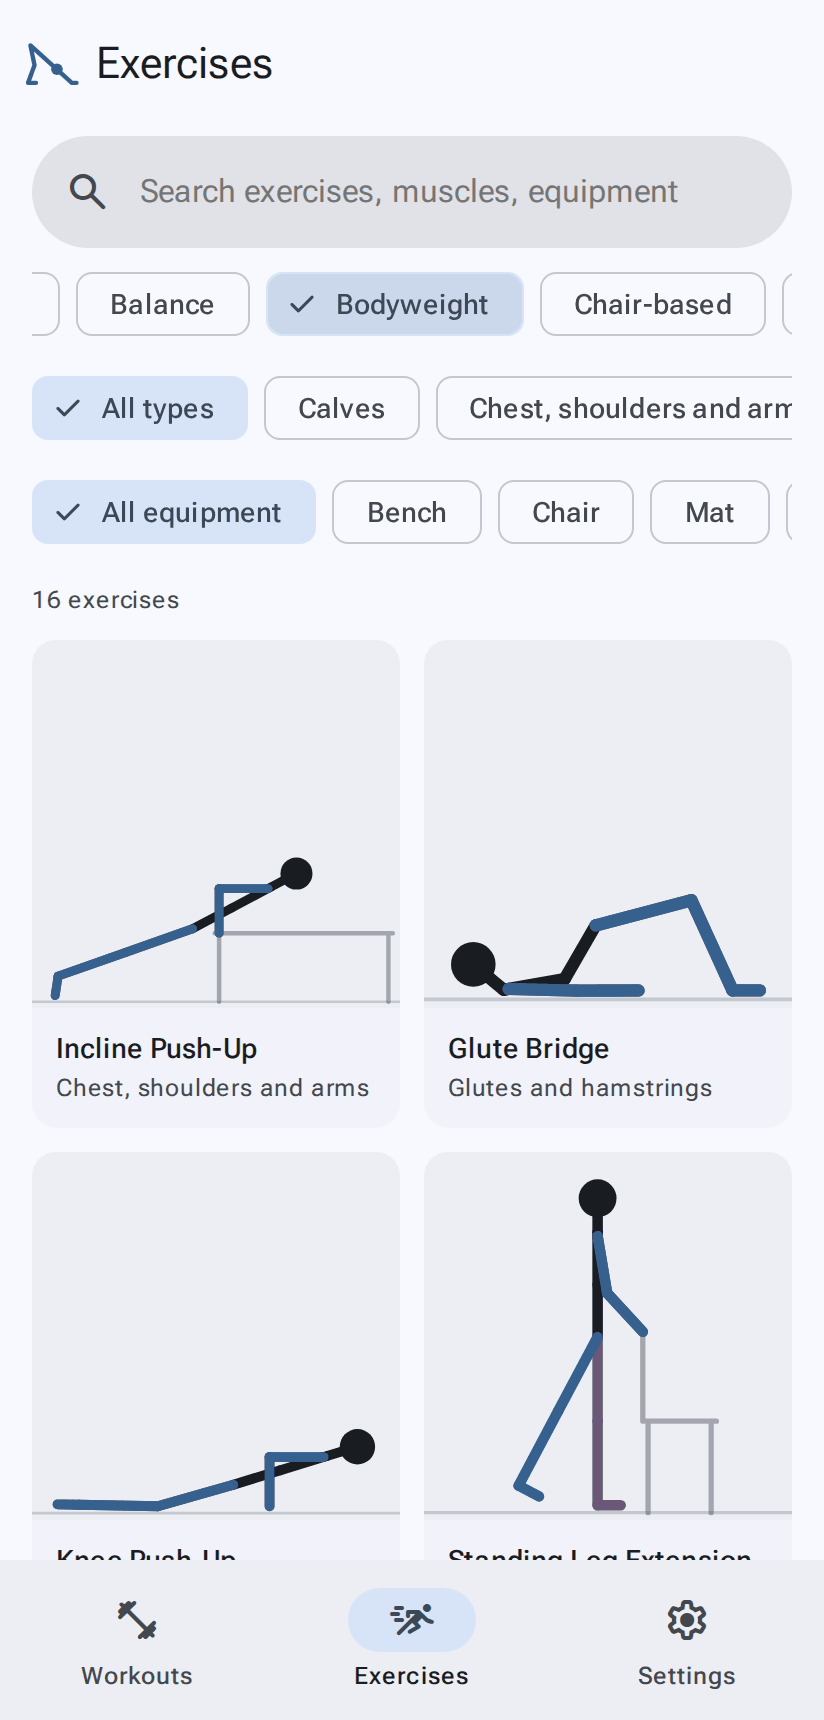
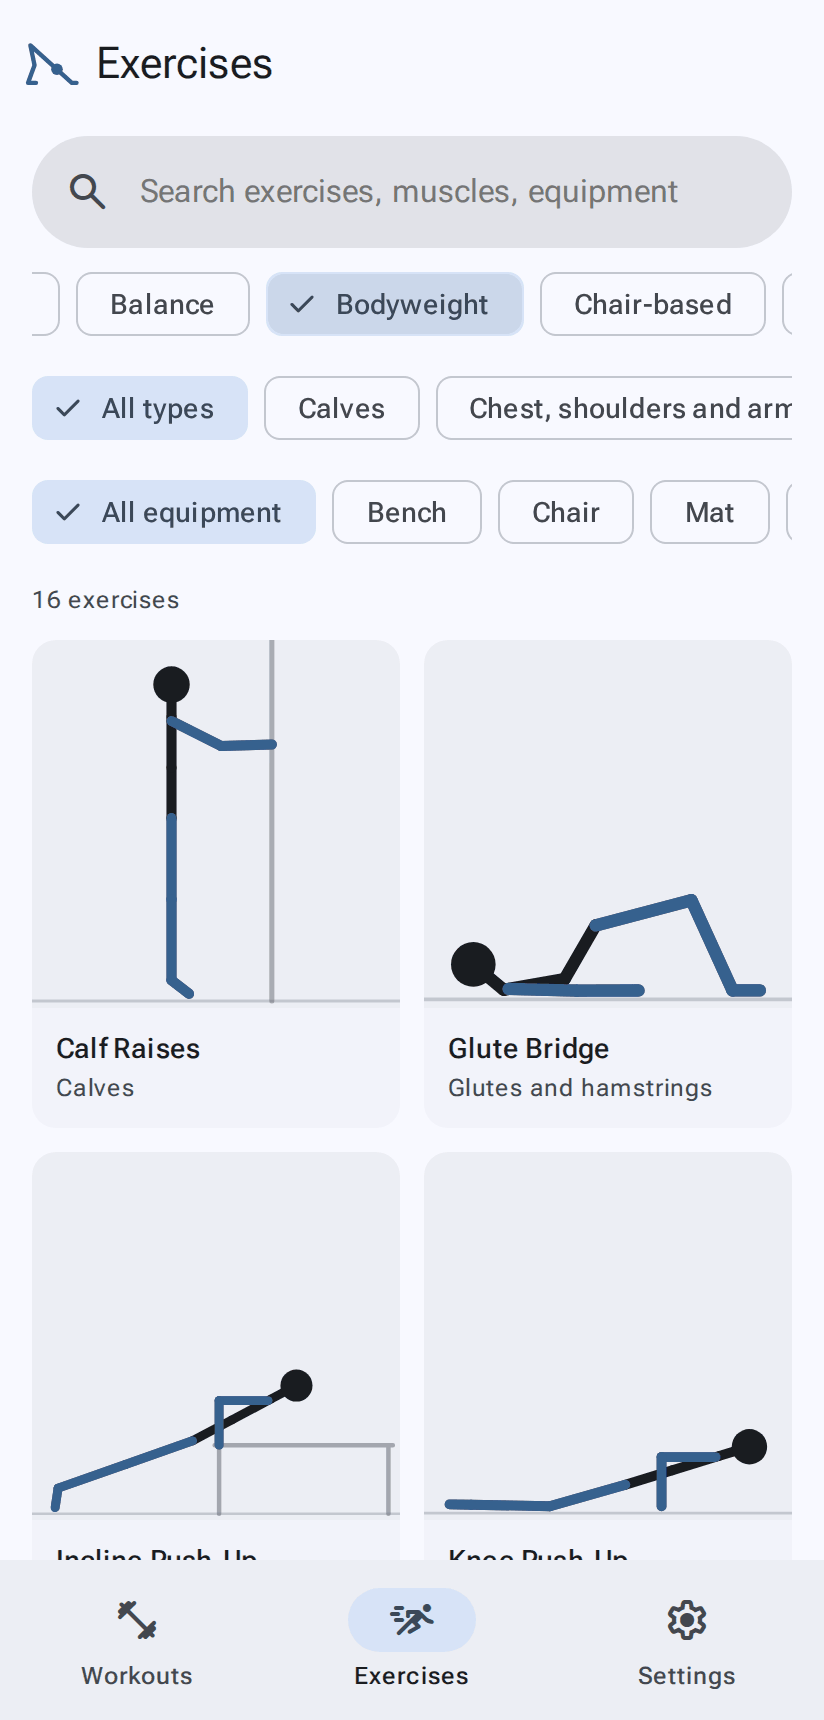
Exercises tab: Group by collection switch
On (default): a shelf per collection, or with filters the matches under each collection. Off: one A-Z list of everything that matches. Lists inside one collection are A-Z too. Remembered in nstructr-group-collections-v1.

Claude-Session: https://claude.ai/code/session_0133kyx5MPf8aRU2sQwm2BG7

diff --git a/src/app/2-explore.js b/src/app/2-explore.js
@@ -34,6 +34,10 @@ function migrateSaved() {
   if (changed) { saveBookmarks(); saveLib(); }
 }
 const E = { coll: 'All', type: 'All', equip: 'Any', q: '' };
+/* All collections: grouped (a row per collection; with filters, a section per collection) or one A–Z list */
+const GROUP_KEY = 'nstructr-group-collections-v1';
+const grouped = () => pref(GROUP_KEY, 'on') !== 'off';
+const byName = list => [...list].sort((a, b) => a.name.localeCompare(b.name));
 const THUMBS = new Map();
 function thumbFor(ex) {
   const key = ex.id + ':' + JSON.stringify(ex.keyframes).length;
@@ -83,7 +87,19 @@ function renderExplore() {
     (eq === 'Any' || (ex.equipment || []).includes(eq)) &&
     (!q || [ex.name, ...otherNames(ex), ex.category, ex.focus, ...(ex.collections || []), ...(ex.equipment || [])].some(s => String(s || '').toLowerCase().includes(q))));
   const body = $('#exploreBody');
-  if (E.coll === 'All' && E.type === 'All' && eq === 'Any' && !q) {
+  $('#groupWrap').hidden = E.coll !== 'All';
+  $('#groupColl').checked = grouped();
+  if (E.coll === 'All' && grouped() && list.length && (E.type !== 'All' || eq !== 'Any' || q)) {
+    // filtered, grouped: every match, under each collection it's in
+    const matches = new Set(list);
+    const section = (c, items) => items.length ? `<section class="section"><div class="section-head">
+        <h2 class="title-medium">${esc(c)}<span class="count">${items.length}</span></h2></div>
+        <div class="results">${byName(items).map(card).join('')}</div></section>` : '';
+    body.innerHTML = `<p class="body-small muted" style="margin:12px 0 0">${list.length} ${list.length === 1 ? 'exercise' : 'exercises'}</p>` +
+      section(MINE, mine.filter(ex => matches.has(ex))) + colls.map(c => section(c, inCollection(c).filter(ex => matches.has(ex)))).join('');
+    return;
+  }
+  if (E.coll === 'All' && grouped() && E.type === 'All' && eq === 'Any' && !q) {
     // browsing: one shelf per collection, Saved first
     const shelf = (c, items) => `<section class="section"><div class="section-head">
         <h2 class="title-medium">${esc(c)}<span class="count">${items.length}</span></h2>
@@ -104,7 +120,7 @@ function renderExplore() {
     return;
   }
   body.innerHTML = list.length
-    ? `<p class="body-small muted" style="margin:12px 0 0">${list.length} ${list.length === 1 ? 'exercise' : 'exercises'}</p><div class="results">${list.map(card).join('')}</div>`
+    ? `<p class="body-small muted" style="margin:12px 0 0">${list.length} ${list.length === 1 ? 'exercise' : 'exercises'}</p><div class="results">${byName(list).map(card).join('')}</div>`
     : `<div class="empty-state"><span class="icon">search_off</span><p class="title-medium" style="margin:8px 0 4px">Nothing matches</p>
        <p class="muted" style="margin:0 0 16px">Try a different word, or clear the filters.</p><button class="btn tonal stateful" data-act="clearFilters">Clear filters</button></div>`;
 }

diff --git a/src/head.html b/src/head.html
@@ -283,6 +283,8 @@ dialog.library[open]{display:flex;flex-direction:column}
 .search:focus-within{outline:3px solid var(--md-primary);outline-offset:0}
 .filters{display:flex;gap:8px;overflow-x:auto;padding:8px 16px;scrollbar-width:none}   /* 8 px above and below each 32 px chip: room for its 48 px touch target */
 .filters::-webkit-scrollbar{display:none}
+.group-toggle{display:flex;align-items:center;justify-content:space-between;gap:12px;min-height:48px;padding:0 16px;cursor:pointer}
+.group-toggle[hidden]{display:none}
 .filter{flex:none;display:inline-flex;align-items:center;gap:8px;height:32px;padding:0 16px;border-radius:var(--shape-s);border:1px solid var(--md-outline-variant);
   color:var(--md-on-surface-variant);font-weight:500;letter-spacing:.1px}
 .filter[aria-pressed="true"]{background:var(--md-secondary-container);color:var(--md-on-secondary-container);border-color:transparent;padding-left:8px}

diff --git a/src/app/5-main.js b/src/app/5-main.js
@@ -429,6 +429,7 @@ $('#backBtn').addEventListener('click', () => {
 });
 $('#saveBtn').addEventListener('click', toggleSave);
 $('#search').addEventListener('input', e => { E.q = e.target.value; renderExplore(); });
+$('#groupColl').addEventListener('change', e => { setPref(GROUP_KEY, e.target.checked ? 'on' : 'off'); renderExplore(); });
 $('#clearSearch').addEventListener('click', () => { E.q = ''; $('#search').value = ''; renderExplore(); $('#search').focus(); });
 $('#fileInput').addEventListener('change', e => { importFiles([...e.target.files]); e.target.value = ''; });
 $('#pasteImport').addEventListener('click', () => {

diff --git a/src/body.html b/src/body.html
@@ -32,6 +32,8 @@
         <div class="filters" id="fCollection" role="group" aria-label="Collection"></div>
         <div class="filters" id="fType" role="group" aria-label="Type" hidden></div>
         <div class="filters" id="fEquip" role="group" aria-label="Equipment" hidden></div>
+        <label class="group-toggle" id="groupWrap"><span class="body-medium">Group by collection</span>
+          <input type="checkbox" class="switch" id="groupColl"></label>
       </div>
       <div id="exploreBody"></div>
     </section>

diff --git a/tools/e2e/group_by_collection.py b/tools/e2e/group_by_collection.py
@@ -1,0 +1,30 @@
+import asyncio, os
+# point at a served build, e.g.  python3 -m http.server 8000 -d _site
+URL = os.environ.get('NSTRUCTR_URL', 'http://localhost:8000/nstructr.html')
+from playwright.async_api import async_playwright
+# Exercises tab, "Group by collection": on (default) = a row per collection, or with filters a section per collection;
+# off = one A–Z list of everything that matches. Remembered; shown only for All collections.
+async def main():
+    async with async_playwright() as p:
+        b = await p.chromium.launch(); errs = []
+        pg = await b.new_page(viewport={'width': 412, 'height': 860}); pg.on('pageerror', lambda e: errs.append(str(e)))
+        await pg.goto(URL + '#/exercises', wait_until='domcontentloaded'); await pg.wait_for_timeout(600)
+        state = """(() => { const names = [...document.querySelectorAll('#exploreBody .pose-card .t')].map(x => x.textContent);
+          return { toggle: !$('#groupWrap').hidden, on: $('#groupColl').checked, sections: document.querySelectorAll('#exploreBody .section').length,
+                   carousels: document.querySelectorAll('#exploreBody .carousel').length, cards: names.length,
+                   sorted: names.join('|') === [...names].sort((a, b) => a.localeCompare(b)).join('|'), first: names.slice(0, 3) }; })()"""
+        print('default                 ', await pg.evaluate(state))
+        await pg.click('#groupWrap'); await pg.wait_for_timeout(200)
+        print('off: one A-Z list       ', await pg.evaluate(state), '| library', await pg.evaluate('POSE_DB.exercises.length'))
+        await pg.fill('#search', 'squat'); await pg.wait_for_timeout(200)
+        print('off + search            ', await pg.evaluate(state))
+        await pg.reload(wait_until='domcontentloaded'); await pg.wait_for_timeout(600)
+        print('remembered after reload ', await pg.evaluate("[$('#groupColl').checked, localStorage.getItem('nstructr-group-collections-v1')]"))
+        await pg.click('#groupWrap'); await pg.fill('#search', 'squat'); await pg.wait_for_timeout(200)
+        print('on + search (sections)  ', await pg.evaluate(state), await pg.evaluate("[...document.querySelectorAll('#exploreBody .section h2')].map(h => h.textContent)"))
+        await pg.fill('#search', ''); await pg.click('[data-coll="Yoga"]'); await pg.wait_for_timeout(200)
+        print('one collection          ', await pg.evaluate(state))
+        await pg.set_viewport_size({'width': 360, 'height': 398})
+        print('360 wide: sideways      ', await pg.evaluate("document.documentElement.scrollWidth > innerWidth"))
+        print('errors', errs); await b.close()
+asyncio.run(main())

diff --git a/wiki/Exercises.md b/wiki/Exercises.md
@@ -4,7 +4,7 @@
 
 The **Exercises** tab is the library: over 130 exercises, each animated step by step, with written instructions.
 
-<img src="images/exercises.png" width="300" alt="The Exercises tab: search, collection and equipment filters, shelves">
+<img src="images/exercises.png" width="300" alt="The Exercises tab: search, collection and equipment filters, Group by collection, shelves">
 
 ## Finding an exercise
 
@@ -14,7 +14,11 @@ The **Exercises** tab is the library: over 130 exercises, each animated step by 
 - Inside a collection, a second row filters by **type** (what it works, such as Calves or Core).
 - The **equipment** row narrows the list to exercises that use, for example, a resistance band or a chair. Your
   equipment choice stays when you switch collections.
-- With nothing filtered, the tab shows a shelf per collection; **See all** opens one.
+- **Group by collection** (under the filters, for *All collections*; on at first, and remembered):
+  - **on**: with nothing filtered, a shelf per collection (**See all** opens one); with a search or filter, the
+    matches under each collection they're in;
+  - **off**: one list of everything that matches, A–Z.
+- Inside one collection, and in Bookmarked and My exercises, exercises are listed A–Z.
 
 <img src="images/exercises-collection.png" width="300" alt="A collection with its type and equipment filters">
 

diff --git a/HANDOFF.md b/HANDOFF.md
@@ -663,6 +663,7 @@ must not fill with **duplicates**, and a known exercise under another name shoul
 | `nstructr-ai-app-v1` | the AI app Create with AI opens (`gemini` until one is picked; `claude`, `chatgpt`…) |
 | `nstructr-loop-v1` | `"off"`: the exercise page plays once through (setup, one rep, finish), then stops (overlay Loop toggle) |
 | `nstructr-exmute-v1` | `"on"`: the exercise page's spoken cues are muted (overlay Mute toggle; the voice also needs Sound = Voice/Coach) |
+| `nstructr-group-collections-v1` | `"off"`: the Exercises tab lists All collections as one A–Z list instead of grouped by collection (the tab's own switch) |
 | `nstructr-autoplay-v1` | `"off"`: exercises wait for Play when opened (Settings > Exercises; reduced motion also stops autoplay) |
 | `nstructr-rest-sets-v1` | seconds of rest between sets, in every workout (default 20, 0–300; Settings > Workouts). Workout items' `rest` is ignored |
 | `nstructr-rest-between-v1` | seconds of rest between exercises, in every workout (default 10, 0–300 in 1 s steps; Settings > Workouts). Workout files' `restBetween` is ignored |
